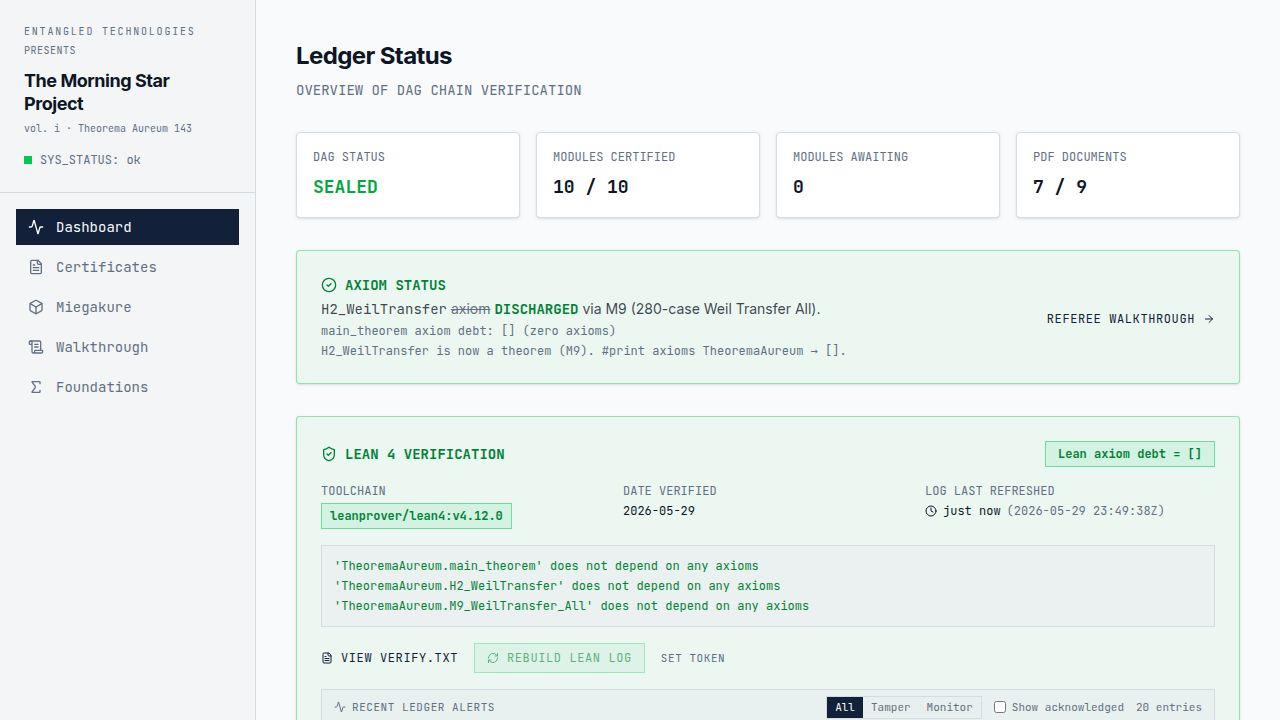
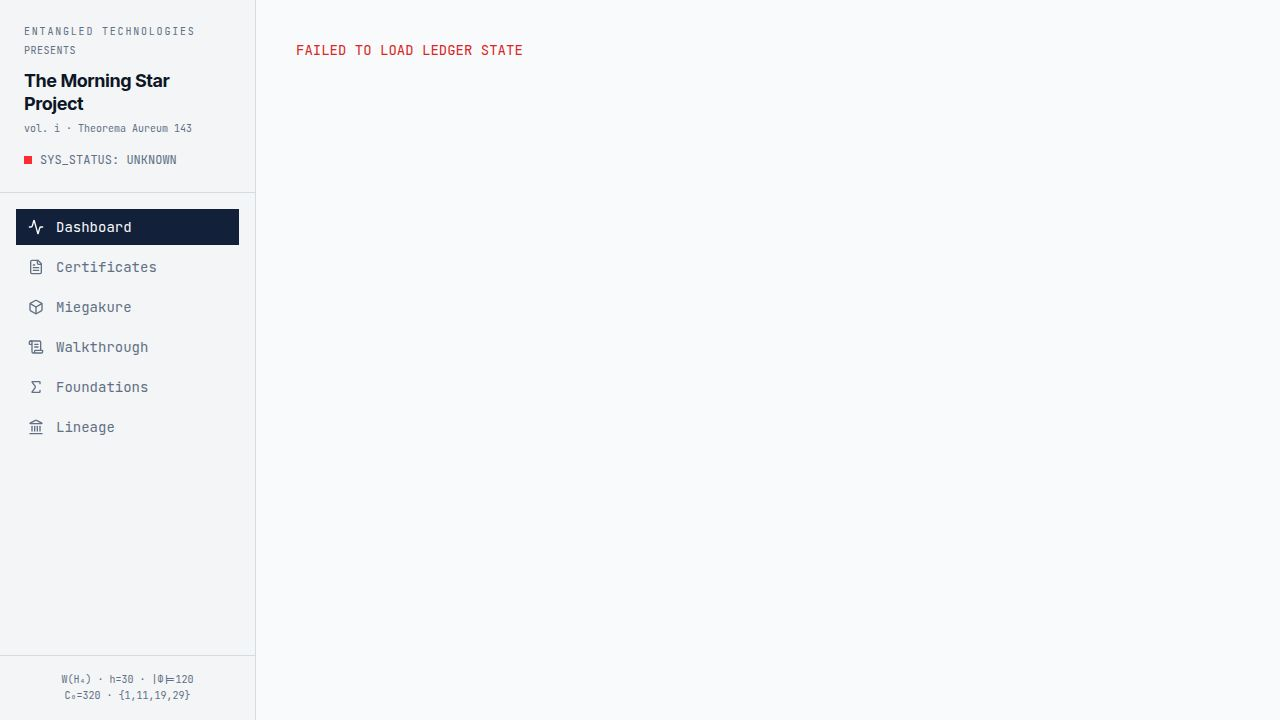
Add honest Haar measure infrastructure for SU3 calculations
Introduces `haarSU3` and `haarN` measures in `SU3Instances.lean`, and updates `replit.md` and `MEMORY.md` to reflect new infrastructure and workflow management for long-running commands.

Replit-Commit-Author: Agent
Replit-Commit-Session-Id: 48ee82c5-40be-4b56-9bab-a1723ea43440
Replit-Commit-Checkpoint-Type: full_checkpoint
Replit-Commit-Event-Id: 6dd6337d-2034-4861-aa73-aff652f2c35b
Replit-Commit-Screenshot-Url: https://storage.googleapis.com/screenshot-production-us-central1/c895fd9e-3149-4247-8552-748faf5de603/48ee82c5-40be-4b56-9bab-a1723ea43440/rAIqFkw
Replit-Helium-Checkpoint-Created: true

diff --git a/.agents/memory/durable-long-commands.md b/.agents/memory/durable-long-commands.md
@@ -1,0 +1,41 @@
+---
+name: Durable long-running commands in this environment
+description: Why detached processes from a bash tool call die, and the supported way to run >120s commands.
+---
+
+# Long / durable commands must run as workflows, not detached from a bash call
+
+A command launched in the background from the `bash` tool (`&`, `nohup ... &`,
+`setsid ... &`, `disown`) **does not survive past the end of that tool call.**
+Each bash tool invocation runs inside its own transient systemd scope
+(`/sys/fs/cgroup/user.slice/shell.slice/shellexec-*.scope`). When the tool call
+returns, systemd tears the scope down and SIGKILLs every process in it —
+including `setsid`-detached children, which stay in the same cgroup even though
+they leave the session/process-group.
+
+**Symptom that misled me (2026-05-30):** a detached Lean check appeared at
+~5s with RSS ~314MB, then by the next tool call the process was gone, the
+completion sentinel was never written, and memory was back to baseline. It
+looked exactly like an OOM kill — but `cat /sys/fs/cgroup/<scope>/memory.events`
+showed `oom_kill 0`. Not memory: scope teardown.
+
+**Why:** confirmed via `cat /proc/self/cgroup` (per-call `shellexec-*.scope`)
+and `memory.events` (zero oom kills). The shell scope's `memory.max` is `max`
+(unlimited), so system-wide free RAM is not the binding constraint either.
+
+**How to apply:**
+- The `bash` tool has a hard 120000 ms (2 min) ceiling. For anything that may
+  exceed ~2 min AND must run to completion, do **not** background it from bash.
+- Run it as a **workflow** (`configureWorkflow` with `outputType: "console"`,
+  `autoStart: true`), which is supervisor-managed and persists across tool
+  calls. Poll results with `getWorkflowStatus({ name })` (state +
+  `output`); read the captured stdout there. Remove the one-shot workflow when
+  done.
+- This is how the heavy Lean elaboration (`lake env lean <file>` on
+  `import Mathlib`, several minutes) and the ~2GB olean recovery
+  (`fetch-mathlib-oleans.sh`) were actually run to completion here.
+- Gotcha when shelling out to kill workflow processes: do **not** put the
+  search pattern directly on the bash command line (`pkill -f "<pattern>"`),
+  because the running shell's own cmdline contains the pattern and the shell
+  SIGTERMs itself (exit 143). Put the pattern inside a script file and run that
+  script instead, or target exact PIDs.

diff --git a/replit.md b/replit.md
@@ -28,6 +28,16 @@ history. Roadmap → `docs/ROADMAP.md`.
   on disk, await Wall 570+/574 with the real SU(3) `H`.
 - **Infra:** mathlib cache self-heal landed (`scripts/fetch-mathlib-oleans.sh`:
   authoritative `lake exe cache get`, no from-source fallback).
+- **Honest measure infra (NOT a brick, not in BRICKS):**
+  `Towers/YM/SU3Instances.lean` carries the real `SU(3)` instance stack
+  (`Group` / `TopologicalGroup` / `CompactSpace` / `BorelSpace`), `haarSU3 =
+  haarMeasure ⊤`, and now `haarN n := Measure.pi (fun _ : Fin n => haarSU3)` —
+  the product Haar measure on `Fin n → SU(3)` link configurations — plus
+  `IsProbabilityMeasure` instances for both. `#print axioms` on `haarSU3` /
+  `haarN` = classical trio (`[propext, Classical.choice, Quot.sound]`), verified
+  live. This is measure-theoretic scaffolding ONLY: built on the *real* Haar
+  measure (NOT the Dirac stand-in), but it makes **no** `m > 0` / mass-gap /
+  `μ > 0` claim and does **not** touch Surface #1 (stays OPEN).
 
 ## Locked invariants (every batch must hold these)
 
@@ -47,7 +57,17 @@ history. Roadmap → `docs/ROADMAP.md`.
 - **Do NOT run `towers-build` / `lake update` casually.** Both re-clone the
   vendored mathlib checkout and wipe its oleans, requiring a `lake-recovery`
   (`lake exe cache get`) pass. Verify bricks via direct `lake env lean <file>`
-  + `#print axioms` instead.
+  + `#print axioms` — **but `lake env` is ALSO destructive when the
+  `v4.12.0` tag is missing.** `lake env` re-resolves `inputRev: v4.12.0` from
+  the mathlib git; if the tag does not resolve it fetches from remote and wipes
+  the oleans, exactly like `lake update` (confirmed 2026-05-30). So BEFORE any
+  `lake env lean`, assert `git -C lean-proof-towers/.lake/packages/mathlib
+  rev-parse v4.12.0` succeeds. Recovery if wiped: `scripts/restore-lake-git.sh`
+  (run it TWICE — first run restores `.git` at the pinned rev, second run
+  rehydrates the empty worktree via its `git checkout -- .` heal), then recreate
+  the tag (`git -C lean-proof-towers/.lake/packages/mathlib tag -f v4.12.0
+  809c3fb3b5c8f5d7dace56e200b426187516535a`), then run
+  `scripts/fetch-mathlib-oleans.sh` to re-download the oleans.
 - The destructive mathlib re-clone is triggered when the restore-tar's vendored
   mathlib `.git` lacks the `v4.12.0` tag (lake fetches from remote to resolve
   `inputRev: v4.12.0`). Fix: recreate the tag locally after any

diff --git a/.agents/memory/MEMORY.md b/.agents/memory/MEMORY.md
@@ -1,2 +1,3 @@
 - [SU(3) Haar instances (Lean4 mathlib v4.12.0)](su3-haar-instances.md) — what haarMeasure actually requires + how to make SU(3) compact when Matrix has no metric.
 - [Lean star vs starRingEnd rfl gap](lean-star-defeq.md) — `rw` can't bridge `star z` / `(starRingEnd ℂ) z`; finish with `exact` (defeq), not `rw`.
+- [Durable long-running commands](durable-long-commands.md) — bash-tool background procs die at the call's systemd-scope teardown (looks like OOM, isn't); run >2min commands as workflows.